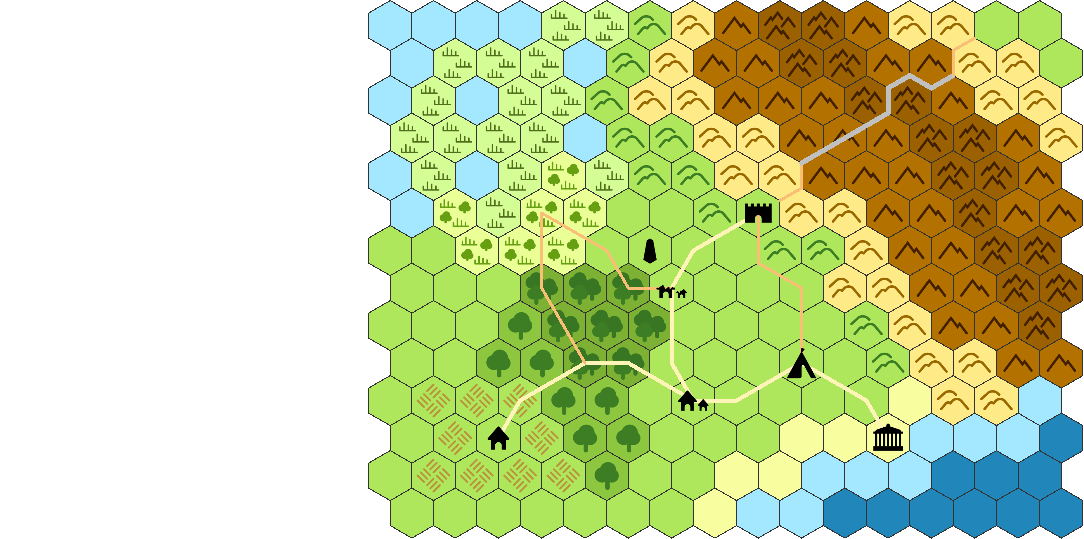
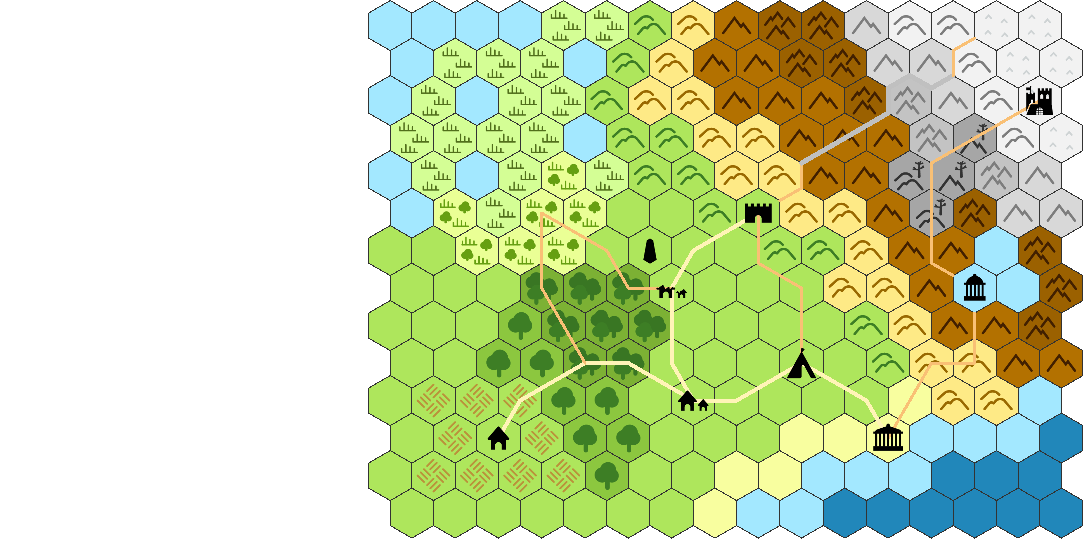
Drop the old background photo and Git LFS, and update the world map.

Changed region(s): [[0.7611, 0.0, 1.0, 0.5937], [0.8524, 0.6531, 0.9133, 0.6827], [0.822, 0.7124, 0.8524, 0.7718]]

diff --git a/core/game-controller.go b/core/game-controller.go
@@ -19,7 +19,6 @@ type GameController struct {
 	Watcher       *fsnotify.Watcher
 	WatcherErrors chan error
 	WatcherEvents chan fsnotify.Event
-	bkg           rl.Texture2D
 	title         titleScreen
 	helpScroll    ui.Scroll
 }
@@ -34,11 +33,7 @@ func NewGameController() *GameController {
 		Quest:         NewQuestView(dm),
 		WatcherErrors: make(chan error, 1),
 		WatcherEvents: make(chan fsnotify.Event, 10),
-		bkg:           rl.LoadTexture("_res/bkg.jpg"),
 		title:         titleScreen{on: true},
-	}
-	if gc.bkg.ID == 0 {
-		ui.AddMessage("%s", text.T("log.background", "Background missing or not an image (git lfs pull?), using a gradient"))
 	}
 
 	if !devTools {
@@ -83,9 +78,6 @@ func NewGameController() *GameController {
 func (c *GameController) Active() *TileManager { return c.Quest.TM }
 
 func (c *GameController) Unload() {
-	if c.bkg.ID != 0 {
-		rl.UnloadTexture(c.bkg)
-	}
 	c.DataManager.Unload()
 	if c.Watcher != nil {
 		// closing the watcher ends the forwarding goroutine
@@ -258,15 +250,6 @@ func (c *GameController) Draw() {
 func (c *GameController) drawBackground() {
 	w, h := int32(rl.GetScreenWidth()), int32(rl.GetScreenHeight())
 	rl.DrawRectangleGradientV(0, 0, w, h, color.RGBA{38, 22, 70, 255}, color.RGBA{8, 10, 28, 255})
-	if c.bkg.ID == 0 {
-		return
-	}
-	// cover the window, keeping the photo's aspect ratio
-	scale := max(float32(w)/float32(c.bkg.Width), float32(h)/float32(c.bkg.Height))
-	dw, dh := float32(c.bkg.Width)*scale, float32(c.bkg.Height)*scale
-	src := rl.Rectangle{Width: float32(c.bkg.Width), Height: float32(c.bkg.Height)}
-	dst := rl.Rectangle{X: (float32(w) - dw) / 2, Y: (float32(h) - dh) / 2, Width: dw, Height: dh}
-	rl.DrawTexturePro(c.bkg, src, dst, rl.Vector2{}, 0, color.RGBA{255, 255, 255, 105})
 }
 
 func (c *GameController) drawLeftPanel() {

diff --git a/README.md b/README.md
@@ -56,8 +56,7 @@ go test ./...        # game, RPG and story checks, no window needed
 ```
 
 Images, fonts and `assets/` are embedded in the binary, but files on disk take priority, so dev
-builds pick up edits live. The background photo is stored with Git LFS (`git lfs pull`); without
-it the game uses a gradient.
+builds pick up edits live.
 
 **Writing the story:** the world, foes, quests, characters, dialogue and cutscenes are YAML files in
 `assets/story/`, with art in its `portraits/`, `backgrounds/` and `foes/` folders. They reload live

diff --git a/attributions.md b/attributions.md
@@ -15,5 +15,4 @@ Some of it is placeholder and will be replaced.
 
 ## Other resources
 
-- Background photo by Ricky Esquivel, from [Pexels](https://www.pexels.com/) (Pexels License)
 - [Noto Mono](https://fonts.google.com/noto) font by Google, under the SIL Open Font License 1.1
